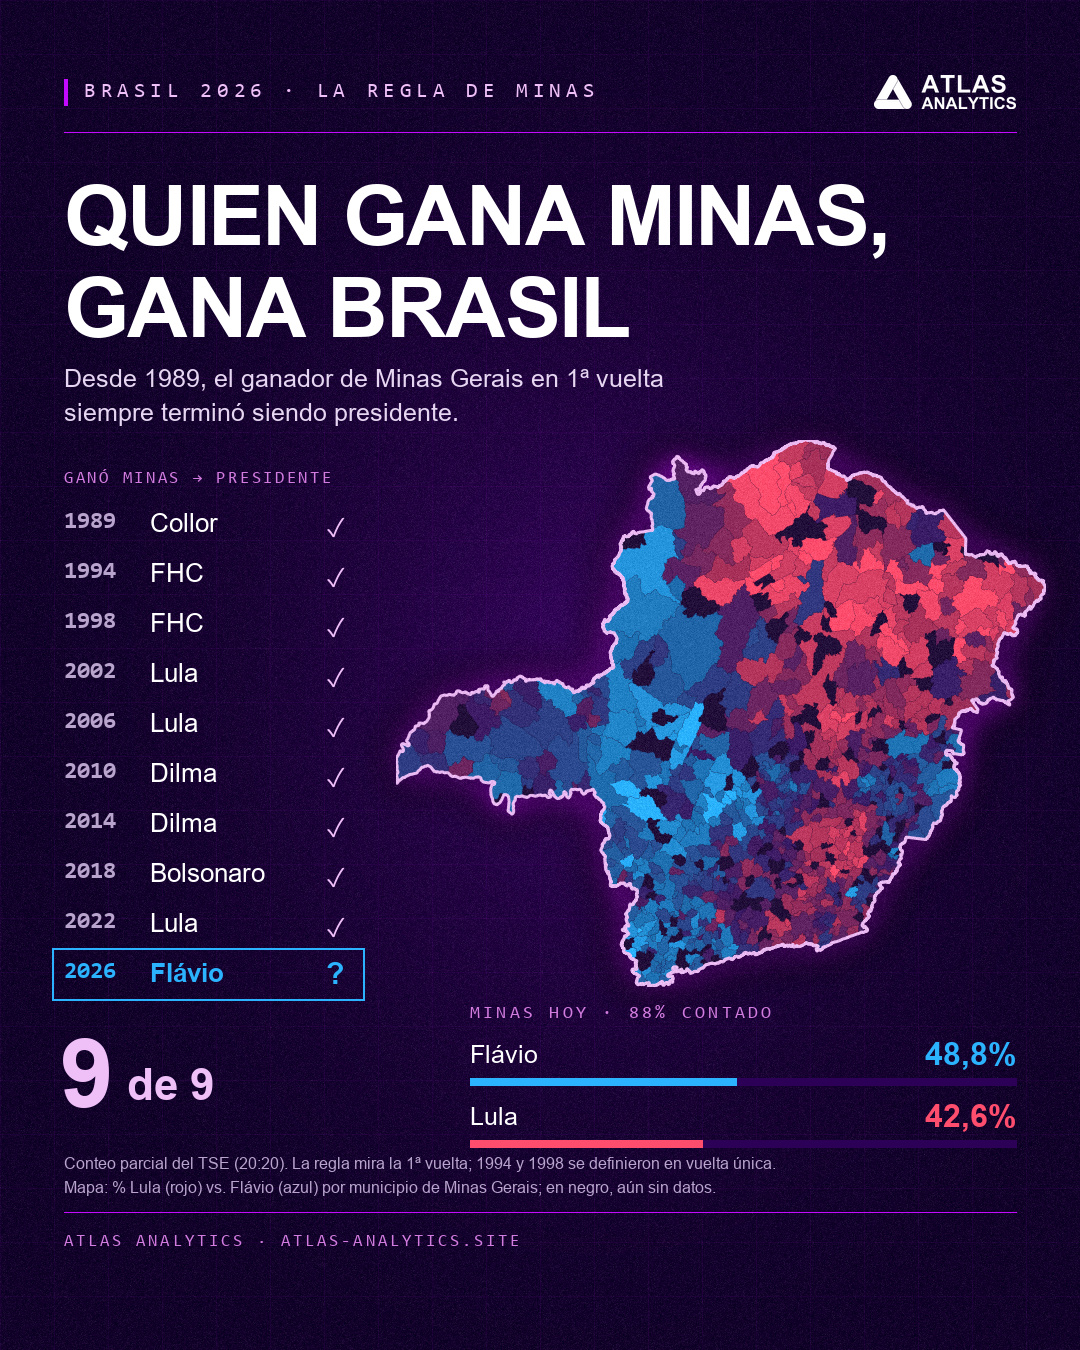
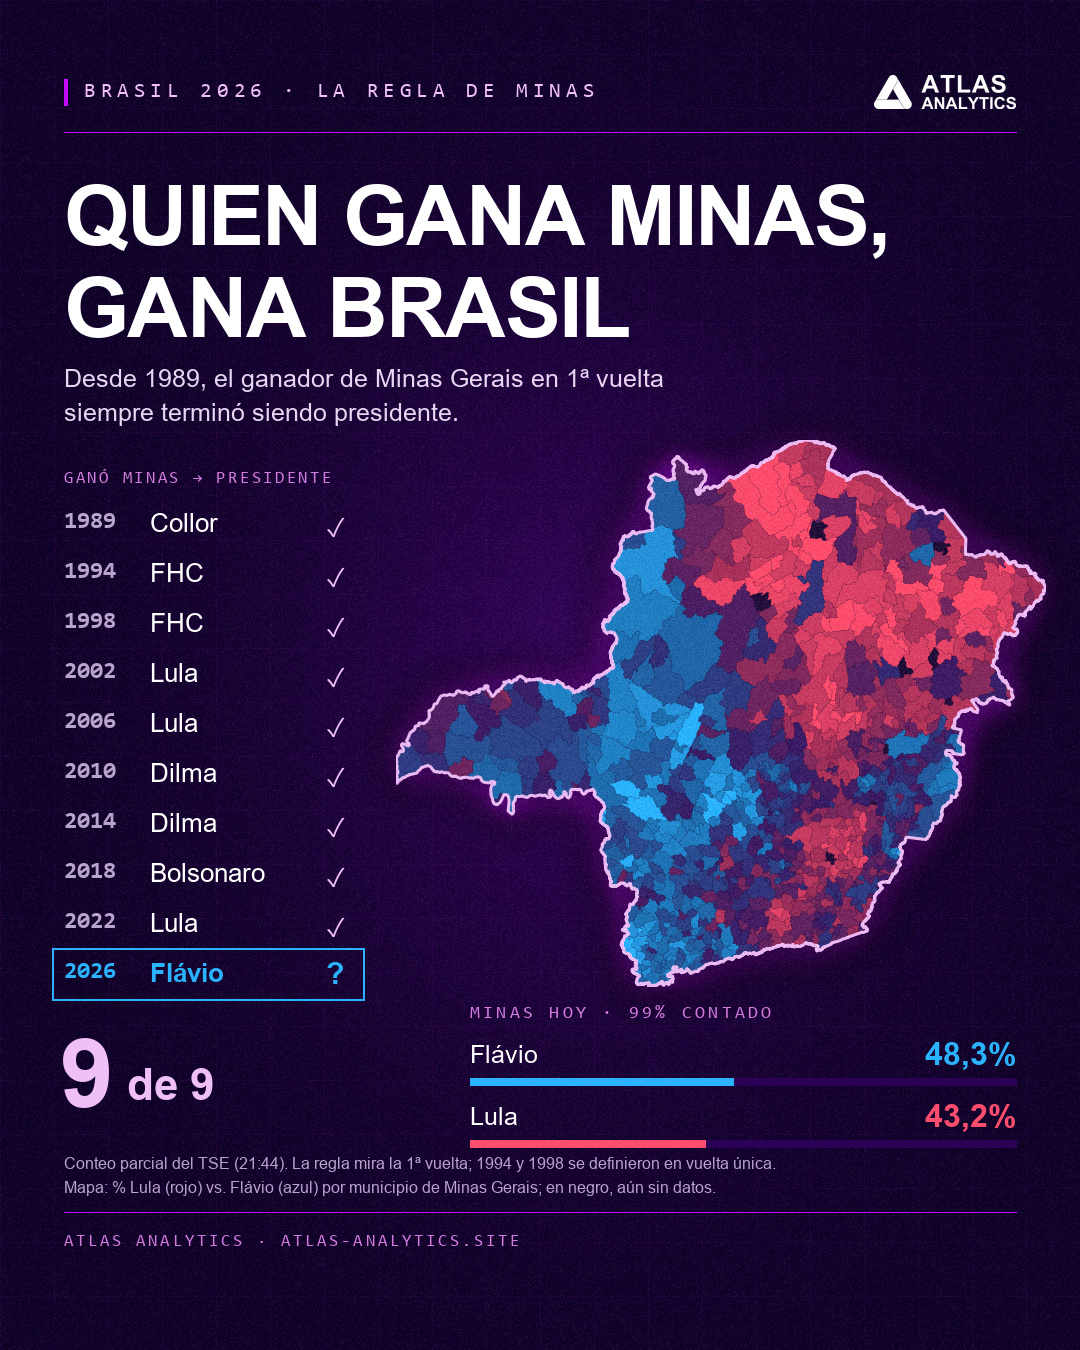
Piezas de la noche: cifras al 99,6% de secciones (TSE 21:47)
Nacional: Flávio 47,1%, Lula 45,1%; error con Flávio +5,5 pp.
Minas: Flávio 48,3%, Lula 43,2%. Los archivos se nombran por el día de
la elección (FECHA_1V), no por la fecha UTC de la descarga.

diff --git a/src/viz/post_pronostico.py b/src/viz/post_pronostico.py
@@ -358,6 +358,7 @@ def armar_mapa(res, mun, salida, ancho=900):
     return salida
 
 
+FECHA_1V = "2026-10-04"  # nombre de archivo: día de la elección, no de la descarga (UTC)
 CONTEO = RAIZ / "data" / "processed" / "electoral" / "conteo_presidencial_2026_1v.json"
 CONTEO_MUN = RAIZ / "data" / "processed" / "electoral" / "conteo_presidencial_2026_1v_municipios.parquet"
 
@@ -386,7 +387,7 @@ def armar_resultado(res, conteo, mun, salida, ancho=860):
     track(d, (SAFE_X, 168), "HAY BALOTAJE" if hay_balotaje else "SIN BALOTAJE",
           _f(F_DISPLAY, 92), BLANCO, -0.02, "a")
     dF = proy["flavio_bolsonaro"] - pron["flavio_bolsonaro"]
-    d.text((SAFE_X, 272), f"Flávio rinde {pct(dF, 0)} puntos más que las encuestas",
+    d.text((SAFE_X, 272), f"Flávio rinde {pct(dF, 1)} puntos más que las encuestas",
            font=_f(F_TEXTO, 25), fill=TEXTO, anchor="la")
 
     # --- arriba a la derecha: el error con Flávio
@@ -537,10 +538,10 @@ def main_resultado():
     mun = mun.assign(codigo=mun.codigo.astype(int)).merge(
         m[["codigo", "lula_2026"]].astype({"codigo": int}), on="codigo", how="left")
     SALIDA.mkdir(parents=True, exist_ok=True)
-    out = SALIDA / f"post_resultado_1v_{conteo['descarga_utc'][:10]}.jpg"
+    out = SALIDA / f"post_resultado_1v_{FECHA_1V}.jpg"
     armar_resultado(res, conteo, mun, out)
     print(out)
-    out = SALIDA / f"post_minas_{conteo['descarga_utc'][:10]}.jpg"
+    out = SALIDA / f"post_minas_{FECHA_1V}.jpg"
     armar_minas(conteo, mun, out)
     print(out)
 
